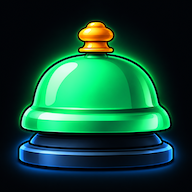
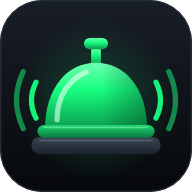
Add files via upload

diff --git a/soundboard/index.html b/soundboard/index.html
@@ -3,10 +3,11 @@
 <head>
   <meta charset="utf-8">
   <meta name="viewport" content="width=device-width, initial-scale=1">
-  <title>Soundboard</title>
+  <title>Soundboard Live</title>
   <meta name="theme-color" content="#0b0d10">
   <link rel="manifest" href="manifest.webmanifest">
-  <link rel="icon" type="image/png" href="icon-192.png">
+  <link rel="icon" type="image/svg+xml" sizes="any" href="icon-small.svg">
+  <link rel="icon" type="image/png" sizes="192x192" href="icon-192.png">
   <link rel="stylesheet" href="style.css">
 </head>
 <body>

diff --git a/soundboard/sw.js b/soundboard/sw.js
@@ -5,6 +5,7 @@ const CACHE = 'soundboard-shell-v5';
 const SHELL = [
   './', 'index.html', 'style.css', 'app.js', 'util.js', 'store.js', 'engine.js', 'midi.js',
   'project.js', 'ui.js', 'dialogs.js', 'manifest.webmanifest', 'icon-192.png', 'icon-512.png',
+  'icon-maskable-512.png', 'icon.svg', 'icon-small.svg', 'logo.svg',
 ];
 
 self.addEventListener('install', (e) => {

diff --git a/soundboard/README.md b/soundboard/README.md
@@ -68,4 +68,6 @@ Debug: In der Chrome-Konsole (F12) ist `soundboard` verfügbar (z. B. `soundboar
 | `store.js` | IndexedDB, `storage.persist()` |
 | `project.js` | Projektformat (`.sbproj`), Validierung, Import/Export |
 | `util.js` | DOM-Helfer, Fehlerlog |
-| `sw.js`, `manifest.webmanifest`, `icon-*.png` | PWA/Offline |
+| `sw.js`, `manifest.webmanifest` | PWA/Offline |
+| `logo.svg` | Logo (Service-Klingel, transparenter Hintergrund) für Kopfzeilen, Dokumente, Folien |
+| `icon.svg`, `icon-small.svg`, `icon-*.png` | App-Icon mit dunkler Kachel; `icon-small.svg` ohne Schallwellen als Favicon, `icon-maskable-512.png` für runde/ausgeschnittene Android-/Desktop-Icons |
